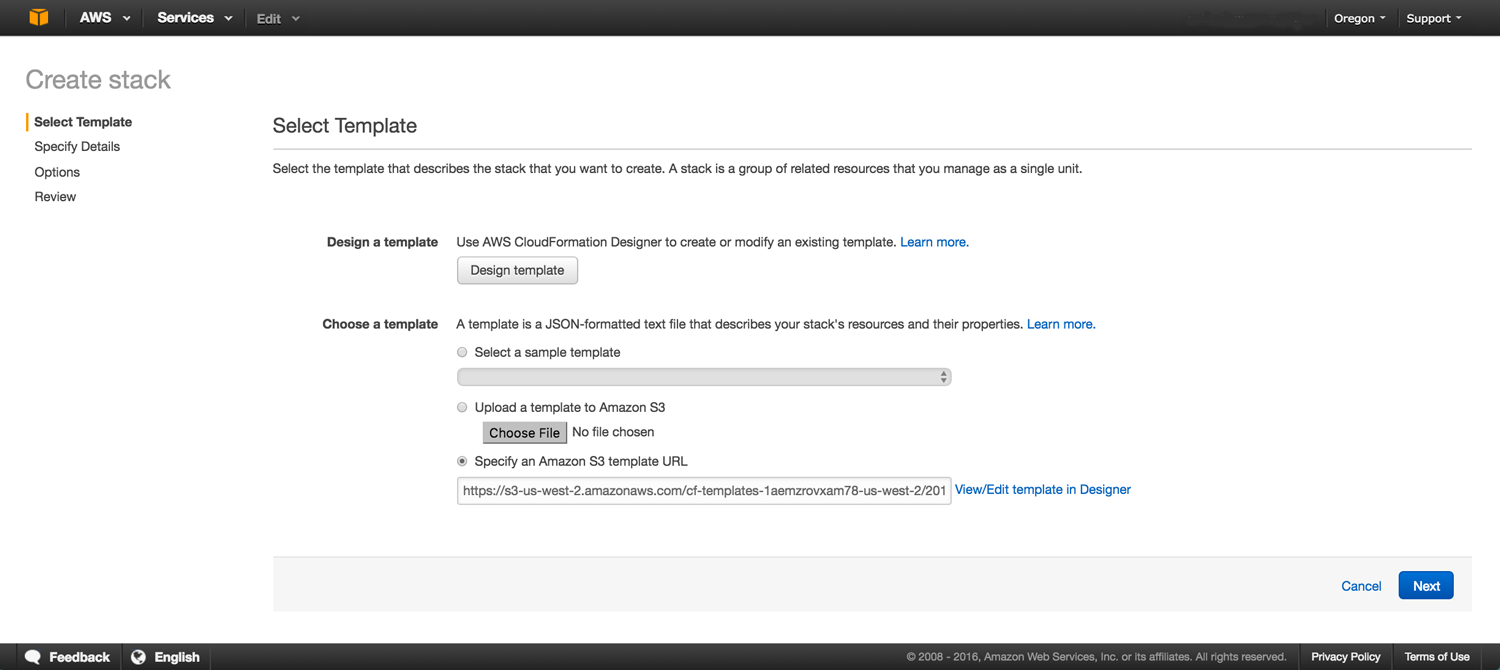
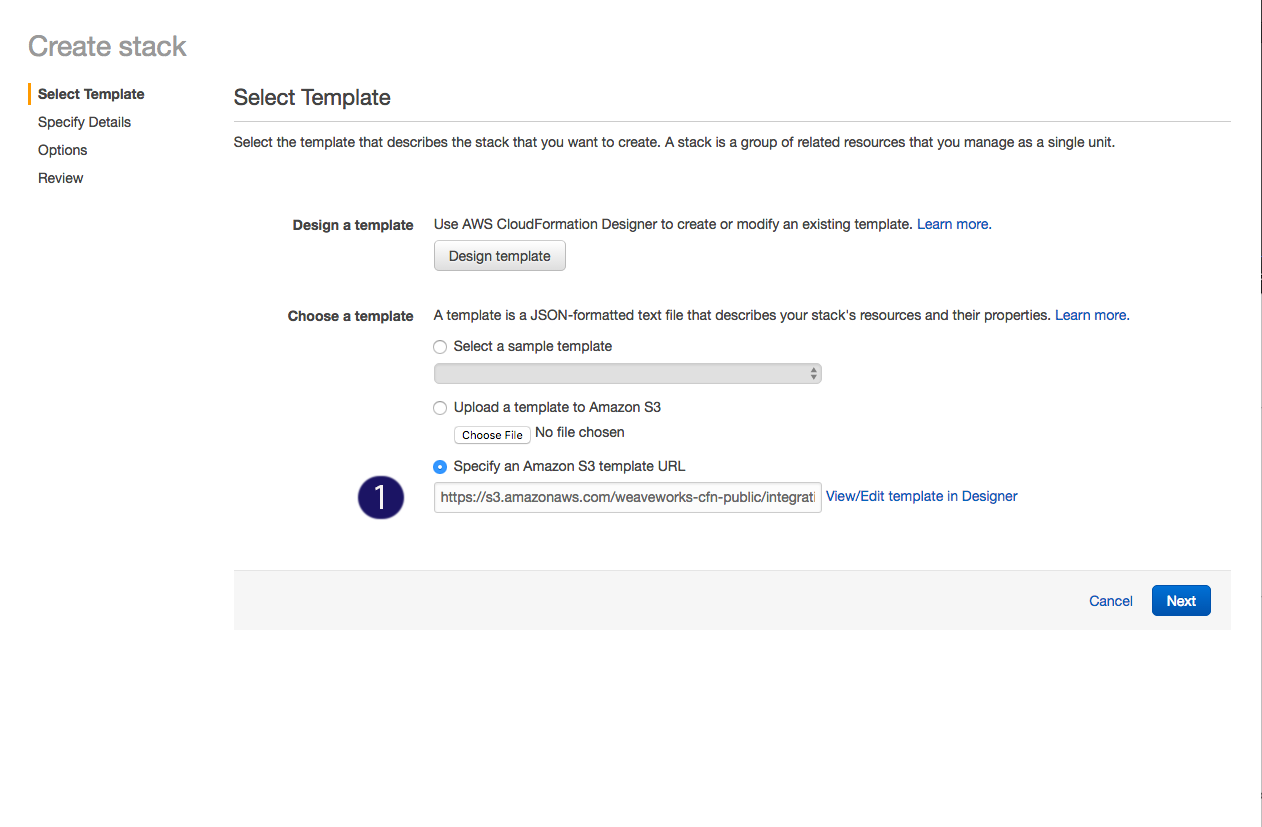
screen captures added

diff --git a/weave-multicast/weave-multicast.md b/weave-multicast/weave-multicast.md
@@ -48,19 +48,19 @@ Before launching the cloud formation template:
 
 1. Enable the ‘Specify an Amazon S3 template URL’ option and then click `Next`.
  ![](/guides/images/multicast/AWS-1-select-template.png)
-2. Enter a name for the stack and then select the key pair that you generated, from the KeyName dropdown.
-![](/guides/images/multicast/AWS-2-select-template.png)
-3. Add the Weave Cloud token into the WeaveScopeCloudService token field and click `Next`.
-4. The options dialog doesn’t require any input.
-5. In the Confirmation dialog, enable the capabilities acknowledgement box and click `Create`.
+2. Enter a name for the stack. 
+3. Select whether you want to deploy an additional sample app, called 'Hit Counter'that comes with this template. This app is different from the Multicast demo. Choose No if you don't want to deploy it.  
+4. Next choose the key pair that you generated, from the KeyName dropdown.
+![](/guides/images/multicast/AWS-2-specify-details-parameters.png)
+5. Add the Weave Cloud token into the WeaveScopeCloudService token field and click `Next`.
+4. The options dialog doesn’t require any input, so just click `Next`.
+5. In the Confirmation dialog, enable the capabilities acknowledgement box and then click `Create`.
 
-[screen capture]
+![](/guides/images/multicast/AWS-4-create-stack.png)
 
 The CloudFormation stack dashboard appears, where you can monitor the progress of the stack’s creation. It takes about 10-15 minutes to complete. Press refresh button in the top right corner to monitor its progress.
 
-[screen capture]
-
-Once the stack has been created, select the Outputs tab and look for the URL to Weave Cloud where you can visualize the demo app. However, before you can do that, you need to deploy the multicast app as a set of services to the ECS cluster you just created. 
+Once the stack has been created, go to [Weave Cloud](https://cloud.weave.works) where you can visualize the demo app. However, before you can do that, you need to deploy the multicast app as a set of services to the ECS cluster you just created. 
 
 Leave the stack creation window open and create a new tab for this next section. 
 
@@ -68,22 +68,24 @@ Leave the stack creation window open and create a new tab for this next section.
 
 To deploy the multicast demo: 
 
-Go to the EC2 Container Service console by clicking `Services -> EC2 Container Service Console` where you will see something similar to the following: 
-[screen capture] 
+Go to the EC2 Container Service console by clicking `Services -> EC2 Container Service Console` where you will see something similar to the following:
 
-The cluster you just created with the AWS template appears under the Cluster group. Its name is appended with the name that you give your stack in step 2 during stack creation.
+![](/guides/images/multicast/create-stack.png)
+
+The cluster you just created with the AWS template appears under the Cluster group. Its name is appended with the name that you gave your stack in step 2 during stack creation.
 
 1. Create a task by clicking on `Task Definition` and then `Create New Task`. 
-2. Give the task a name in the Task Definition field:  [task-definition-screen-capture]
+2. Give the task a name in the Task Definition field: ![](/guides/images/multicast/create-task.png).
 3. Create the multicast containers from the docker image by clicking the `Create Container` button, where the following appears: 
 
-[add-container-screencapture]
+![](/guides/images/multicast/add-container.png)
 
 Fill in the following: 
 
  * Container Name -- A name for the container
  * Image -- Add the repository and the app `lmarsden/mlist`
  * Maximum Memory -- 500
+ * CPU -- 100
  
 For this demo, these are the only fields that need to be configured. Once complete, click `Add` 
 
@@ -96,22 +98,26 @@ Next, run the task you just created as a service in the cluster. For the purpose
 1. Select the cluster that was created with the AWS Cloud Formation template. 
 2. Click on `Create` to add a service: 
 
+![](/guides/images/multicast/create-service.png)
+
+![](/guides/images/multicast/service-name-definition-instances.png)
+
 In this dialog, select the Task Definition you created, then give the service a name and assign the number of tasks to 3. Click `Create Service` and then `View Service`. Wait for the containers to spin up, when they've changed from PENDING to RUNNING, before moving on to the next section. 
 
 
 ##<a name="visualize-multicast"></a>Visualizing Multicast in Weave Cloud
 
-To visualize the demo, launch Weave Cloud by returning to the Cloud Stack tab and copying the URL from the Outputs tab. 
+To visualize the demo, log in to Weave Cloud and click View Instance:
 
-[containers-multicast-screencapture]
+![](/guides/images/multicast/containers-multicast.png)
 
 Click on one of the containers to view its metrics: 
 
-[metrics-multicast-screencast]
+![](/guides/images/multicast/metrics-multicast.png)
 
-To view multicast in action, select the terminal button from the top of the metrics panel: 
+To view multicast in action, select the terminal button from the controls located on the top of the metrics panel: 
 
-[multicast-scope]
+![](/guides/images/multicast/metrics-multicast.png)
 
 Click on some of the other containers and launch their terminals to view how all of the IP addresses are being discovered by each of the nodes as they broadcast data across the Weave network.
 
